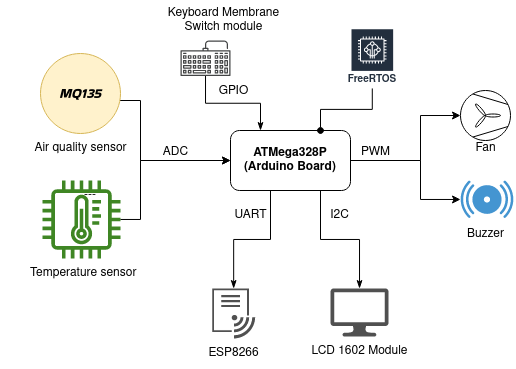
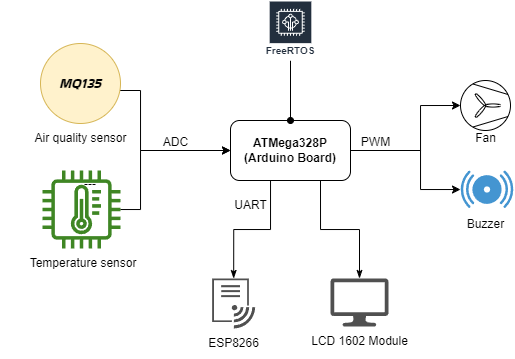
Report update

Changed region(s): [[0.0621, 0.0, 1.0, 0.9805], [0.5903, 0.5515, 0.8078, 0.9805], [0.901, 0.6128, 0.9942, 0.6435]]

diff --git a/doc/report.md b/doc/report.md
@@ -1,4 +1,6 @@
-# IoT Security Project Report <!-- omit in toc -->
+
+# Smart Lab Sensor <!-- omit in toc -->
+## Low level and Embedded System programming Project Report <!-- omit in toc -->
 
 ## ***Luigi Rachiele*** - Computer Engineering of IoT - ***214894*** <!-- omit in toc -->
 
@@ -10,7 +12,13 @@
 - [Project Scope](#project-scope)
 - [Architecture](#architecture)
 - [Southbound](#southbound)
-  - [Arduino UNO](#arduino-uno)
+  - [Southbound architecture](#southbound-architecture)
+  - [Sensing](#sensing)
+  - [Actuation](#actuation)
+    - [States](#states)
+    - [User to Actuation Interaction](#user-to-actuation-interaction)
+  - [ATmega328p - Arduino uno board](#atmega328p---arduino-uno-board)
+  - [FreeRTOS](#freertos)
     - [**Sensors** and **ADC**](#sensors-and-adc)
     - [UART](#uart)
   - [ESP8266](#esp8266)
@@ -37,19 +45,17 @@
 
 ## Intro
 
-The IoT Security Project Report provides an overview and analysis of the security aspects implemented in an IoT project. As the Internet of Things (IoT) continues to expand, ensuring the security and privacy of connected devices and their data becomes increasingly important.
+The following report provides an overview and analysis of the **Low Level and Embedded** System programming aspects implemented in a project focused on developing a **smart lab sensor**. The primary objective of this project is to create an advanced embedded system capable of detecting the presence of toxic gases and fire incidents in laboratory. The embedded system is designed to enable prompt actions in response to safety alerts, such as activating a fan for air circulation and sounding a buzzer to alert users.
 
-This report delves into the various components of the IoT system, categorized into three main sections: Northbound, Cloud, Southbound, Transport Protocol. Each section represents a distinct aspect of the project and plays a crucial role in the overall security architecture. In addition to the man categories there are other that are no less important like Transport Layer - MQTT, Database. Both are included in the cloud section, but it is important to mention them thanks to their role in the project.
+The project emphasizes the utilization of low-level programming techniques and embedded systems to enhance safety and security measures. By leveraging advanced sensing capabilities, the system can accurately identify the presence of toxic gases and fire incidents, providing timely warnings to mitigate potential risks.
 
-The Southbound category represents the source of the data, which is the physical device in this case. This section explores the specifications, hardware components, and security features implemented in the physical device to ensure protection against physical tampering or unauthorized access.
+The embedded system's architecture and programming techniques are designed to ensure efficient data acquisition, processing, and transmission. Through the use of low-level programming, precise control over the hardware components is achieved, optimizing system resources and enhancing overall performance and reliability.
 
-The Cloud section focuses on the cloud infrastructure. Inside the cloud infrastructure are located also the the MQTT broker, used to facilitate communication between the devices and the cloud, and the database, used to store data. The protocols, security measures, and authentication mechanisms employed to establish a secure and reliable connection are discussed.
+Throughout this report, the implementation details of the embedded system are explored, emphasizing the utilization of low-level programming techniques tailored to the specific requirements of the project. The report also highlights the significance of integrating various sensors, such as temperature sensors, to enhance the system's functionality and improve safety measures.
 
-The Northbound category encompasses the applications that read and interact with the data collected by the IoT system, such as the Android App and NodeRED dashboard. The security measures implemented in these applications for secure user authentication, data visualization, and control over connected devices are analyzed.
+Additionally, the report examines the implementation of actuation mechanisms, including fan activation for air circulation and buzzer activation for alerting users during safety alerts. The utilization of low-level programming ensures efficient control and seamless integration of these actuation mechanisms within the embedded system.
 
-Throughout this report, best practices, challenges faced, and lessons learned in securing an IoT system are highlighted within these three macro categories. By examining the security measures within each category, valuable insights and recommendations for enhancing the overall security posture of IoT projects are provided.
-
-The IoT Security Project Report delves into the details of the Northbound applications, the Cloud, Southbound physical device, uncovering the security measures implemented to protect against potential threats.
+By analyzing the role of low-level programming and embedded systems in the project, this report aims to provide a comprehensive understanding of their importance in developing smart smoke sensors capable of detecting toxic gases and fire incidents. The insights and recommendations derived from this analysis contribute to the broader field of Low Level and Embedded System programming, offering valuable guidance for future research and development in safety-enhancing embedded systems.
 
 ## Project Scope
 
@@ -90,19 +96,92 @@ The overall system architecture is illustrated in the  image. This image provide
 This section provides an overview of the part of the project where data are generated.
 The generation of the data that flow in the architecture are sensed from the external and are in the form of Temperature (°) and Quality of Air.
 The data are sensed using the physical device discussed below.
-The devices used for the project are two:
 
-- Arduino UNO: used for sesnsing the data;
-- ESP8266: used for network interfacing.
+### Southbound architecture
+The Southbound architecture is a crucial component of the embedded system and it is based on the utilization of the ATmega328P microcontroller. It consist of four main parts. It leverages various technologies and modules to enable seamless operation and interaction within the system.
+
+**FreeRTOS**: At the core of the Southbound architecture lies FreeRTOS, a real-time operating system specifically designed for microcontrollers like the ATmega328P. FreeRTOS provides advanced task management, scheduling, and resource handling capabilities, enabling efficient multitasking and optimal utilization of system resources.
+**Sensing**: The sensing part forms an integral component of the Southbound architecture, enabling data acquisition from the environment. It incorporates two sensors, namely TMP36 and MQ135. The TMP36 sensor measures temperature, while the MQ135 sensor detects the presence of toxic gases. These sensors interface directly with the ATmega328P, allowing the system to monitor and respond to environmental changes effectively.
+
+**Actuation**: The actuation part of the Southbound architecture empowers the embedded system to execute appropriate actions based on the collected sensor data. It consists of two actuators, a fan and a buzzer, which are controlled by the ATmega328P. In response to detected hazardous conditions, the system can activate the fan to circulate air and employ the buzzer to provide audible alarms, ensuring prompt and necessary interventions.
+
+**User Interaction**: User interaction is facilitated through an LCD (Liquid Crystal Display) and the integration of an ESP8266 device. The LCD provides a visual interface for displaying relevant information, while the ESP8266 allows the Arduino board to exchange data with the cloud. This capability opens up possibilities for remote monitoring, data logging, and control of the embedded system.
+
+The Southbound architecture brings together these interconnected components, enabling a comprehensive and efficient embedded system. It leverages FreeRTOS for task management, utilizes sensors for data acquisition, employs actuators for response mechanisms, and incorporates user interaction elements for enhanced control and monitoring. Together, these components form a cohesive architecture that ensures reliable and intelligent operation of the embedded system.
 
 <p align="center">
   <img src="images/southbound_architecture.png" alt="Southbound architecture">
 </p>
 
-### Arduino UNO
+### Sensing
+
+### Actuation
+
+The implementation of actuation in your project involves two separate components: a fan for air circulation and a buzzer for alarm signaling. Both of these components operate by utilizing Pulse Width Modulation (PWM) techniques.
+
+The **buzzer**'s PWM modulation is achieved through the utilization of vTaskDelay in FreeRTOS. This allows for precise control over the buzzer's output. On the other hand, the fan's PWM modulation is achieved using a hardware timer of the ATmega328P microcontroller.
+
+The **fan** operates based on the principles of DC motors, and to enable its functionality, additional support components are employed. Firstly, a small DC motor typically requires more power than what the UNO R3 board can directly provide. Attempting to connect the motor directly to a pin of the UNO board would pose a high risk of damaging the board. To address this, a separate power supply is used to ensure the motor receives the appropriate power.
+
+In addition to the power supply, a chip like the *L293D* is utilized to control the motor's operation. The L293D provides the necessary interface between the microcontroller and the motor, allowing for precise control and protection against potential electrical issues.
+
+Lastly, the inclusion of a *optoisolator*, called *4N35*. An optoisolator, also known as an optocoupler, is a device that electrically isolates two circuits while allowing them to communicate through light signals.  The optoisolator consists of an LED (Light-Emitting Diode) on the input side and a phototransistor or a photothyristor on the output side. When a voltage is applied to the input side, the LED emits light, which is detected by the phototransistor/photothyristor on the output side. This optical coupling allows for electrical isolation between the input and output circuits. Power a DC motoro whitout and optoisolator is very dangerous, becaus if the motor changes the polarity, in an inusual way, a negative flow of current goes to the AVR and can cause problem to the chip.
+
+By combining the PWM modulation techniques, appropriate power supply management, motor control chip, and optoisolator, the actuation system in your project ensures efficient and reliable operation of both the fan and the buzzer, serving their respective purposes in the overall functionality of the system.
+
+#### States
+The state the system can ensure are different. The table list every Actuation state.
+
+
+| #   |      Name      |  FreeRTOS Task | What does? |
+|---|:----------:|-----------:|------:|
+| 0 | Alarm ON   | alarmON    |Start alarm. -> Start Buzzer and Fan|
+| 1 | Alarm OFF  | alarmOFF   |Stop alarm. -> Stop Buzzer and Fan|
+| 2 | Buzzer ON  | buzzerTask |Start Buzzer|
+| 3 | Buzzer OFF | buzzerTask |Stop Buzzer|
+| 4 | Fan ON     | fanTask    |Start Fan at Speed 1|
+| 5 | Fan OFF    | fanTask    |Stop Fan|
+| 6 | Fan x2     | fanTask    |Start Fan at Speed 2x|
+
+
+
+
+
+
+#### User to Actuation Interaction
+Through the dashboard interface, users have the ability to issue various commands to the microprocessor, enabling them to perform specific actions. These commands include turning the alarm on and off, activating or deactivating the buzzer, and controlling the fan by turning it on or off.
+
+Each of these commands directly affects the state of the system and is managed through task scheduling using the FreeRTOS operating system. The system comprises different tasks, namely "fanTask," "alarmOn," "alarmOff," and "buzzerTask," which are responsible for executing the corresponding actions based on the received commands.
+
+To facilitate communication between the user and the microprocessor, the MQTT protocol is employed. When a command is sent by the user through the northbound dashboard, it is transmitted via MQTT. The ESP8266, which acts as the MQTT listener, receives the command and forwards it to the Arduino board using the serial port for further processing.
+
+Upon receiving the command through the serial communication, a system interrupt is triggered. This interrupt suspends the execution of other tasks momentarily, prioritizing the handling of the received command. Consequently, the appropriate task is awakened to process the command and carry out the necessary actions.
+
+It's worth noting that the commands can vary in type, depending on the desired state of the system. Each distinct command serves as a trigger to awaken a specific task within the FreeRTOS framework, ensuring efficient and accurate actuation based on the user's input.
+
+### ATmega328p - Arduino uno board
+
+The ATmega328P is an 8-bit, 28-pin, low-power microcontroller manufactured by Atmel. It is the most popular microcontroller used in Arduino boards. The ATmega328P has a maximum clock speed of 20 MHz and 32 KB of flash memory, 2 KB of SRAM, and 1 KB of EEPROM. It also has a wide range of interfaces, including a serial port, a parallel port, a timer, and an analog-to-digital converter.
+
+The ATmega328P is based on the development board Arduino Uno. It is one of the most popular Arduino boards. It is easy to use and has a large community of users and developers who can provide support and assistance.
 
 The **Arduino Uno** acts as a pivotal board housing the ATMega328P microprocessor, providing the necessary computational power for the project. Within the Arduino Uno, several components are employed to facilitate the system's functionality.
 
+In the project are used the ISR (interrupt service routine), PORTB and PORTD and the hardware timer.
+### FreeRTOS
+FreeRTOS plays a crucial role in the embedded system project described, as it manages the Southbound section of the system. Its task management, timing, and inter-process communication features are essential to this project's seamless functioning.
+
+In our project, the smoke sensor's core functions and applications hinge on the efficient use of FreeRTOS. Here, FreeRTOS is tasked with managing the operations of the TMP36 and MQ135 sensors, a fan, a buzzer, an LCD for user interaction, and the ESP8266 device for cloud communication. Each component runs as a separate task in the FreeRTOS environment, enabling simultaneous operation and synchronization.
+
+The TMP36 sensor is used for temperature detection, and the MQ135 sensor is used to detect the presence of harmful gases. When the sensor data exceeds a safety threshold, FreeRTOS ensures the immediate triggering of specific responses - activating the fan for air circulation and turning on the buzzer to alert the user.
+
+//TODO TASK THRESHOLD DOPO IL SENSE
+
+The FreeRTOS scheduler manages these tasks, coordinating the task-switching based on priority and ensuring that the system responds to hazards promptly. It also helps manage the communication with the ESP8266 device, providing a crucial link between the Southbound hardware components and the cloud.
+
+When a message comes from the Northbound to the MQTT Broker the ESP32 send through serial the message received in
+
+The usage of FreeRTOS in this project allows the intelligent smoke sensor to operate efficiently and reliably, responding to real-time changes in the environment while also communicating critical data to the cloud, ensuring safety and promoting smart home automation. Furthermore, it exemplifies the effective use of low-level programming in managing and coordinating multiple hardware components in a single, compact system.
 #### **Sensors** and **ADC**
 
 For the sensing phase, two distinct analogic sensors are utilized: the MQ135 and the TMP36.
